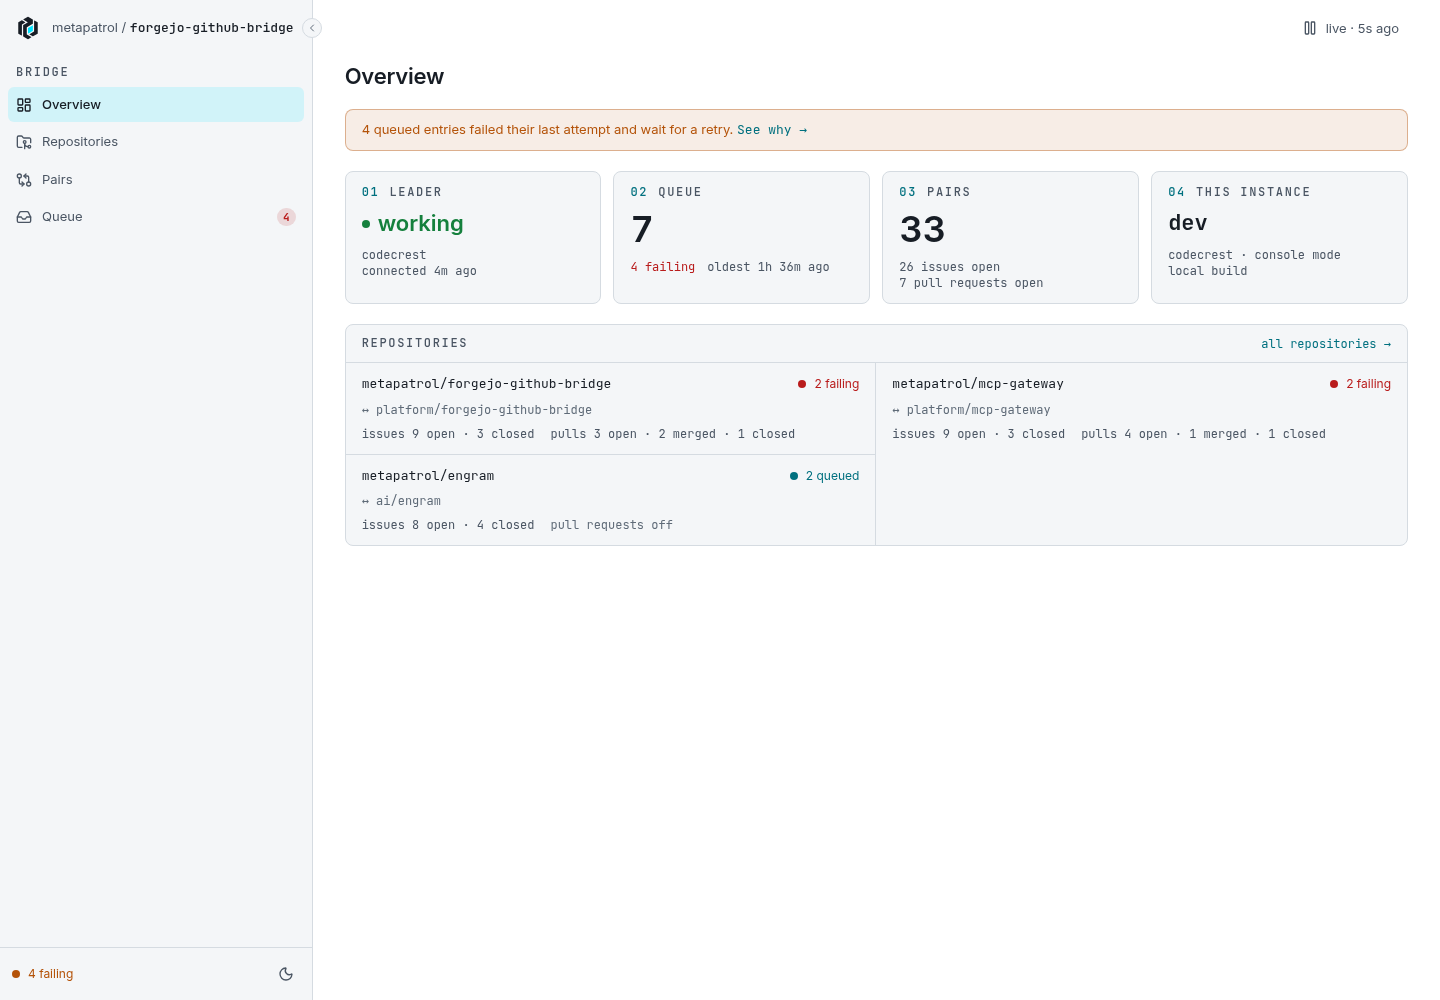
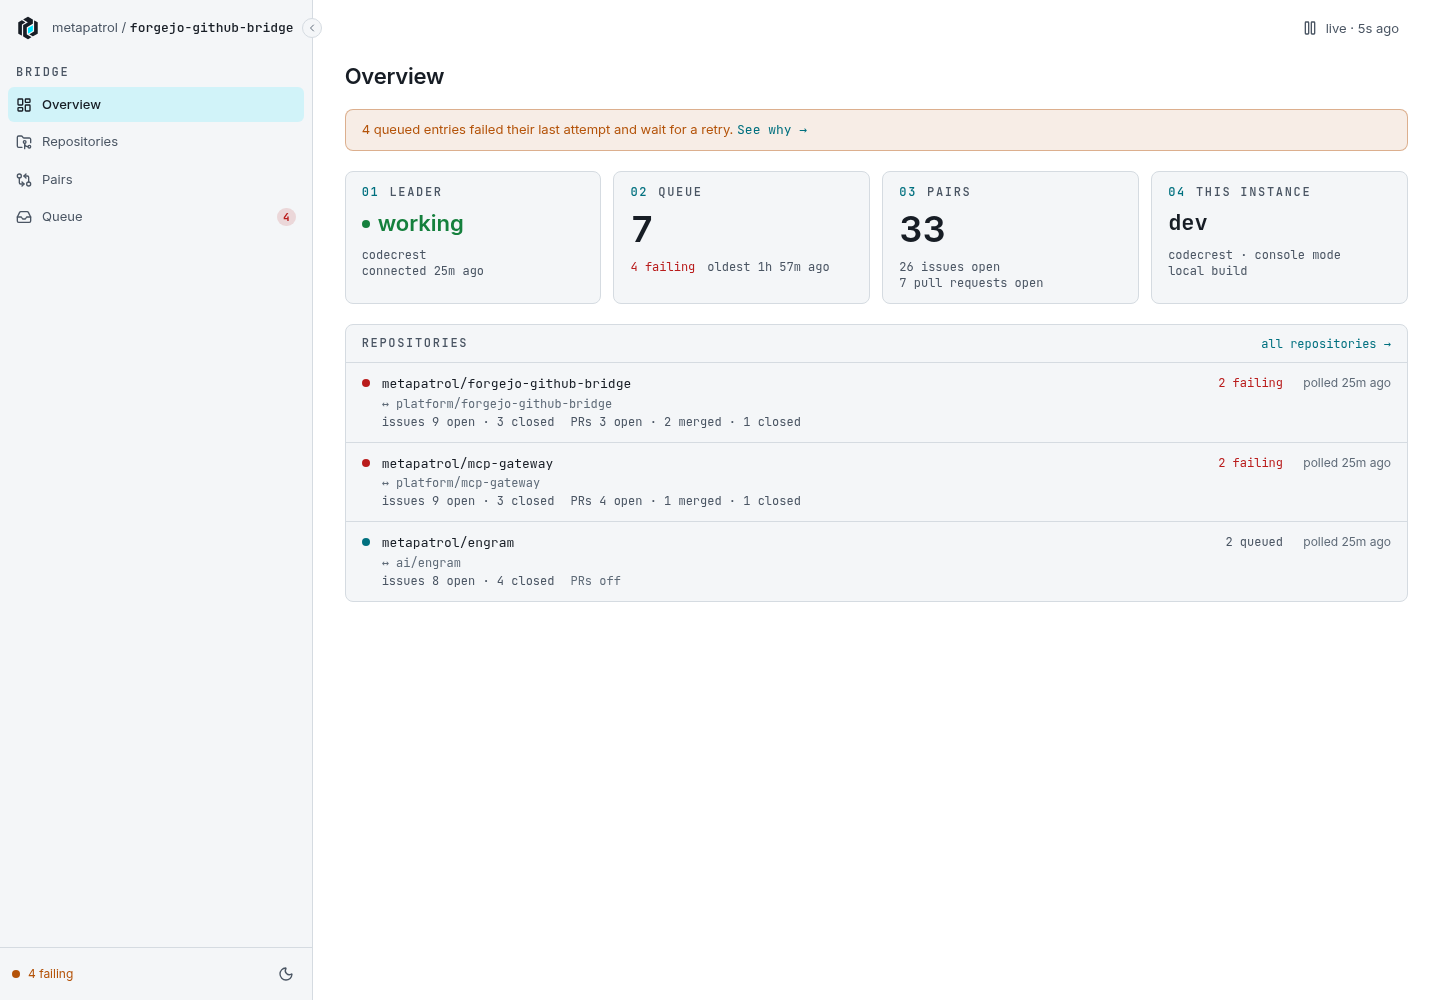
feat(ui): repositories as a status list, problems first
The overview lists repositories one per row, failing ones first, with the
queue state and the last poll aligned on the right. The repositories table
fits its panel.

diff --git a/ui/src/app/features/repositories/repositories.ts b/ui/src/app/features/repositories/repositories.ts
@@ -4,6 +4,7 @@ import { MpLoadState, MpPageHeader, MpTime } from '@metapatrol/ng';
 import { listRepositories } from '../../api/fn/repositories/list-repositories';
 import { apiResource } from '../../core/api';
 import { repoPath } from '../../core/format';
+import { lastPoll, repoHealth } from '../../core/repos';
 import { autoRefresh } from '../../core/refresh';
 
 @Component({
@@ -18,62 +19,64 @@ import { autoRefresh } from '../../core/refresh';
       what="repositories"
     />
     @if (repos.hasValue()) {
-      <section class="mp-panel mp-panel-flush overflow-x-auto">
-        <table class="mp-table">
-          <thead>
-            <tr>
-              <th scope="col">GitHub</th>
-              <th scope="col">Forgejo</th>
-              <th scope="col">issues</th>
-              <th scope="col">pull requests</th>
-              <th scope="col">queue</th>
-              <th scope="col">last poll</th>
-            </tr>
-          </thead>
-          <tbody>
-            @for (r of repos.body() ?? []; track r.key) {
+      <section class="mp-panel mp-panel-flush">
+        <div class="max-w-full overflow-x-auto">
+          <table class="mp-table w-full">
+            <thead>
               <tr>
-                <td class="font-mono text-sm whitespace-nowrap">
-                  <a [routerLink]="['/repositories', ...repoPath(r.key)]" class="mp-link">{{
-                    r.github
-                  }}</a>
-                </td>
-                <td class="font-mono text-sm whitespace-nowrap text-fg-muted">{{ r.forgejo }}</td>
-                <td class="font-mono text-xs whitespace-nowrap">
-                  {{ r.counts.issuesOpen }} open · {{ r.counts.issuesClosed }} closed
-                </td>
-                <td class="font-mono text-xs whitespace-nowrap">
-                  @if (r.pullRequests) {
-                    {{ r.counts.pullsOpen }} open · {{ r.counts.pullsMerged }} merged ·
-                    {{ r.counts.pullsClosed }} closed
-                  } @else {
-                    <span class="text-fg-subtle">off</span>
-                  }
-                </td>
-                <td class="text-xs whitespace-nowrap">
-                  @if (r.queue.failing > 0) {
-                    <span class="mp-status" data-status="error">{{ r.queue.failing }} failing</span>
-                  } @else if (r.queue.depth > 0) {
-                    <span class="mp-status" data-status="active">{{ r.queue.depth }} queued</span>
-                  } @else {
-                    <span class="mp-status" data-status="success">in step</span>
-                  }
-                </td>
-                <td class="text-xs whitespace-nowrap text-fg-muted">
-                  @if (lastPoll(r.cursors); as at) {
-                    <mp-time [value]="at" />
-                  } @else {
-                    —
-                  }
-                </td>
+                <th scope="col">repository</th>
+                <th scope="col">pairs</th>
+                <th scope="col">queue</th>
               </tr>
-            } @empty {
-              <tr>
-                <td colspan="6" class="text-sm text-fg-subtle">No repositories configured.</td>
-              </tr>
-            }
-          </tbody>
-        </table>
+            </thead>
+            <tbody>
+              @for (r of repos.body() ?? []; track r.key) {
+                <tr>
+                  <td class="w-full max-w-0 min-w-56">
+                    <a
+                      [routerLink]="['/repositories', ...repoPath(r.key)]"
+                      class="mp-link block truncate font-mono text-sm"
+                      >{{ r.github }}</a
+                    >
+                    <span class="block truncate font-mono text-xs text-fg-subtle"
+                      >↔ {{ r.forgejo }}</span
+                    >
+                  </td>
+                  <td class="font-mono text-xs whitespace-nowrap">
+                    <span class="block"
+                      >issues {{ r.counts.issuesOpen }} open ·
+                      {{ r.counts.issuesClosed }} closed</span
+                    >
+                    @if (r.pullRequests) {
+                      <span class="block"
+                        >PRs {{ r.counts.pullsOpen }} open · {{ r.counts.pullsMerged }} merged ·
+                        {{ r.counts.pullsClosed }} closed</span
+                      >
+                    } @else {
+                      <span class="block text-fg-subtle">PRs off</span>
+                    }
+                  </td>
+                  <td class="text-xs whitespace-nowrap">
+                    <span class="mp-status" [attr.data-status]="health(r).status">{{
+                      health(r).text
+                    }}</span>
+                    <span class="block text-fg-subtle">
+                      @if (lastPoll(r); as at) {
+                        polled <mp-time [value]="at" />
+                      } @else {
+                        not polled yet
+                      }
+                    </span>
+                  </td>
+                </tr>
+              } @empty {
+                <tr>
+                  <td colspan="3" class="text-sm text-fg-subtle">No repositories configured.</td>
+                </tr>
+              }
+            </tbody>
+          </table>
+        </div>
       </section>
     }
   `,
@@ -81,16 +84,10 @@ import { autoRefresh } from '../../core/refresh';
 export class Repositories {
   protected readonly repos = apiResource(listRepositories, () => ({}));
   protected readonly repoPath = repoPath;
+  protected readonly health = repoHealth;
+  protected readonly lastPoll = lastPoll;
 
   constructor() {
     autoRefresh(this.repos);
-  }
-
-  /** When any poll cursor of the repository last moved. */
-  protected lastPoll(cursors: { updatedAt: string }[]): string | undefined {
-    return cursors
-      .map((c) => c.updatedAt)
-      .sort()
-      .at(-1);
   }
 }

diff --git a/ui/src/app/features/overview/overview.html b/ui/src/app/features/overview/overview.html
@@ -99,41 +99,50 @@
         [loading]="repos.isLoading() && !repos.hasValue()"
         what="repositories"
       />
-      <ul class="grid grid-cols-1 lg:grid-cols-2">
-        @for (r of repos.body() ?? []; track r.key) {
-          <li
-            class="border-t border-line first:border-t-0 lg:odd:border-r lg:[&:nth-child(2)]:border-t-0"
-          >
+      <ul>
+        @for (r of sorted(); track r.key) {
+          <li class="border-b border-line last:border-b-0">
             <a
               [routerLink]="['/repositories', ...repoPath(r.key)]"
-              class="flex flex-col gap-2 px-4 py-3 text-fg no-underline hover:bg-surface-2"
+              class="grid grid-cols-[auto_minmax(0,1fr)] gap-x-3 gap-y-0.5 px-4 py-3 text-fg no-underline hover:bg-surface-2 sm:grid-cols-[auto_minmax(0,1fr)_9rem_6rem]"
             >
-              <span class="flex items-baseline justify-between gap-2">
-                <span class="truncate font-mono text-sm">{{ r.key }}</span>
-                @if (r.queue.failing > 0) {
-                  <span class="mp-status text-xs" data-status="error"
-                    >{{ r.queue.failing }} failing</span
-                  >
-                } @else if (r.queue.depth > 0) {
-                  <span class="mp-status text-xs" data-status="active"
-                    >{{ r.queue.depth }} queued</span
-                  >
+              <span
+                class="mp-status row-span-3 self-start pt-1"
+                [attr.data-status]="health(r).status"
+                aria-hidden="true"
+              ></span>
+              <span class="truncate font-mono text-sm">{{ r.key }}</span>
+              <span
+                class="col-start-2 row-start-4 font-mono text-xs sm:col-start-3 sm:row-start-1 sm:text-right"
+                [class.text-error]="health(r).status === 'error'"
+                [class.text-fg-muted]="health(r).status !== 'error'"
+                >{{ health(r).text }}</span
+              >
+              <span
+                class="col-start-2 row-start-5 text-xs text-fg-subtle sm:col-start-4 sm:row-start-1 sm:text-right"
+              >
+                @if (lastPoll(r); as at) {
+                  polled <mp-time [value]="at" />
                 } @else {
-                  <span class="mp-status text-xs" data-status="success">in step</span>
+                  not polled
                 }
               </span>
-              <span class="font-mono text-xs text-fg-subtle">↔ {{ r.forgejo }}</span>
-              <span class="flex flex-wrap gap-x-4 gap-y-1 font-mono text-xs text-fg-muted">
+              <span class="col-start-2 truncate font-mono text-xs text-fg-subtle"
+                >↔ {{ r.forgejo }}</span
+              >
+              <span
+                class="col-start-2 flex flex-wrap gap-x-4 font-mono text-xs text-fg-muted sm:col-span-3"
+              >
                 <span
                   >issues {{ r.counts.issuesOpen }} open · {{ r.counts.issuesClosed }} closed</span
                 >
                 @if (r.pullRequests) {
                   <span
-                    >pulls {{ r.counts.pullsOpen }} open · {{ r.counts.pullsMerged }} merged ·
+                    >PRs {{ r.counts.pullsOpen }} open · {{ r.counts.pullsMerged }} merged ·
                     {{ r.counts.pullsClosed }} closed</span
                   >
                 } @else {
-                  <span class="text-fg-subtle">pull requests off</span>
+                  <span class="text-fg-subtle">PRs off</span>
                 }
               </span>
             </a>

diff --git a/ui/src/app/core/repos.spec.ts b/ui/src/app/core/repos.spec.ts
@@ -1,0 +1,50 @@
+import { Repository } from '../api/models/repository';
+import { byHealth, lastPoll, repoHealth } from './repos';
+
+function repo(key: string, depth: number, failing: number, cursors: string[] = []): Repository {
+  return {
+    key,
+    github: key,
+    forgejo: key,
+    githubUrl: '',
+    forgejoUrl: '',
+    pullRequests: false,
+    targetBranches: [],
+    rebaseRequests: false,
+    importLabel: 'github',
+    publishLabel: 'public',
+    counts: { issuesOpen: 0, issuesClosed: 0, pullsOpen: 0, pullsMerged: 0, pullsClosed: 0 },
+    queue: { depth, failing },
+    cursors: cursors.map((updatedAt) => ({
+      side: 'github',
+      stream: 'issues',
+      cursor: updatedAt,
+      updatedAt,
+    })),
+  };
+}
+
+describe('repos', () => {
+  it('puts problems first, then names', () => {
+    const sorted = byHealth([
+      repo('o/idle', 0, 0),
+      repo('o/b-queued', 2, 0),
+      repo('o/failing', 3, 1),
+      repo('o/a-queued', 1, 0),
+    ]);
+    expect(sorted.map((r) => r.key)).toEqual(['o/failing', 'o/a-queued', 'o/b-queued', 'o/idle']);
+  });
+
+  it('says what the queue holds', () => {
+    expect(repoHealth(repo('o/x', 3, 2))).toEqual({ rank: 0, status: 'error', text: '2 failing' });
+    expect(repoHealth(repo('o/x', 2, 0)).text).toBe('2 queued');
+    expect(repoHealth(repo('o/x', 0, 0)).text).toBe('in step');
+  });
+
+  it('takes the poll that moved last', () => {
+    expect(lastPoll(repo('o/x', 0, 0, ['2026-10-06T10:00:00Z', '2026-10-06T11:00:00Z']))).toBe(
+      '2026-10-06T11:00:00Z',
+    );
+    expect(lastPoll(repo('o/x', 0, 0))).toBeUndefined();
+  });
+});

diff --git a/ui/src/app/core/repos.ts b/ui/src/app/core/repos.ts
@@ -1,0 +1,35 @@
+import { Repository } from '../api/models/repository';
+
+export interface RepoHealth {
+  /** 0 failing, 1 queued, 2 idle: problems sort first. */
+  rank: number;
+  /** An mp-status value. */
+  status: 'error' | 'active' | 'success';
+  text: string;
+}
+
+/** A repository's queue in one word, with the dot that goes with it. */
+export function repoHealth(r: Repository): RepoHealth {
+  if (r.queue.failing > 0) {
+    return { rank: 0, status: 'error', text: `${r.queue.failing} failing` };
+  }
+  if (r.queue.depth > 0) {
+    return { rank: 1, status: 'active', text: `${r.queue.depth} queued` };
+  }
+  return { rank: 2, status: 'success', text: 'in step' };
+}
+
+/** When any of the repository's polls last moved. */
+export function lastPoll(r: Repository): string | undefined {
+  return r.cursors
+    .map((c) => c.updatedAt)
+    .sort()
+    .at(-1);
+}
+
+/** Problems first: failing, then queued, then the rest; by name within each. */
+export function byHealth(repos: readonly Repository[]): Repository[] {
+  return [...repos].sort(
+    (a, b) => repoHealth(a).rank - repoHealth(b).rank || a.key.localeCompare(b.key),
+  );
+}

diff --git a/ui/src/app/features/overview/overview.ts b/ui/src/app/features/overview/overview.ts
@@ -4,6 +4,7 @@ import { count, MpLoadState, MpNotice, MpPageHeader, MpTime } from '@metapatrol/
 import { listRepositories } from '../../api/fn/repositories/list-repositories';
 import { apiResource } from '../../core/api';
 import { repoPath } from '../../core/format';
+import { byHealth, lastPoll, repoHealth } from '../../core/repos';
 import { autoRefresh } from '../../core/refresh';
 import { StatusService } from '../../core/status';
 
@@ -18,6 +19,10 @@ export class Overview {
   protected readonly repos = apiResource(listRepositories, () => ({}));
   protected readonly count = count;
   protected readonly repoPath = repoPath;
+  protected readonly health = repoHealth;
+  protected readonly lastPoll = lastPoll;
+  /** Problems first. */
+  protected readonly sorted = computed(() => byHealth(this.repos.body() ?? []));
 
   constructor() {
     autoRefresh(this.repos);
